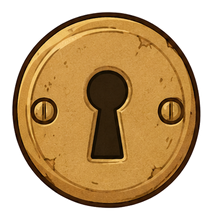
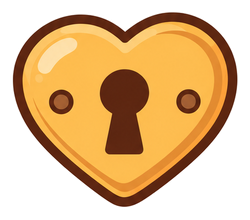
feat(열쇠): 평면 하트 열쇠·열쇠구멍으로 교체 · 0개 알약도 구멍 · 한끼상점 그림 추가(아직 안 씀)
- key_one/key_hole = 창업자 그림(평면 하트 세트) 표준 도구(cut.py --diecut auto --punch) 로 오림
- 가져오기 사진 안내 알약: 「열쇠가 없어도」일 때 열쇠구멍
- hankki_shop.png = 꽃 화분 가게(한끼상점 카드용 · 결제 붙을 때 씀)

Claude-Session: https://claude.ai/code/session_01BuM5tZiYweRPkjKJ6mPtVk

diff --git a/hankki/src/screens/ImportScreen.jsx b/hankki/src/screens/ImportScreen.jsx
@@ -163,6 +163,13 @@ function 열쇠말(flow, meta) {
   return meta.costText
 }
 
+// 🗝 「열쇠가 없어도」 갈래인가 — `열쇠말` 의 photo·0개 조건과 같다(무제한·unknown 은 아니다)
+function 열쇠바닥(flow) {
+  if (flow !== 'photo') return false
+  const 남은 = getOcrLeft()
+  return !남은.무제한 && !남은.unknown && 남은.total <= 0
+}
+
 function 장수꼬리(costText, paid, 홀로 = false) {
   if (홀로) {
     return <b style={{ fontWeight: 800, fontSize: '0.88em', color: paid ? 'var(--danger)' : 'var(--text-sub)', whiteSpace: 'nowrap' }}>{costText}</b>
@@ -746,7 +753,9 @@ export default function ImportScreen() {
               background: 'var(--cream)', color: 'var(--brown)',
               fontSize: 13.5, fontWeight: 800, whiteSpace: 'nowrap',
             }}>
-              <img src={uiKeyOne} alt="" aria-hidden="true" draggable={false} style={{ width: 14, height: 14, objectFit: 'contain' }} />
+              {/* 🗝 [창업자 2026-10-04 「알약도 구멍으로」] 「열쇠가 없어도」일 땐 열쇠구멍 — 큰 배지(KeyBadge)와 같은 짝.
+                  ⭐ 조건은 `열쇠말` 의 「열쇠가 없어도」 갈래와 «똑같다»(말과 그림이 갈리지 않게). */}
+              <img src={열쇠바닥(flow) ? uiKeyHole : uiKeyOne} alt="" aria-hidden="true" draggable={false} style={{ width: 14, height: 14, objectFit: 'contain' }} />
               {열쇠말(flow, flowMeta)}
             </span>
           </div>
